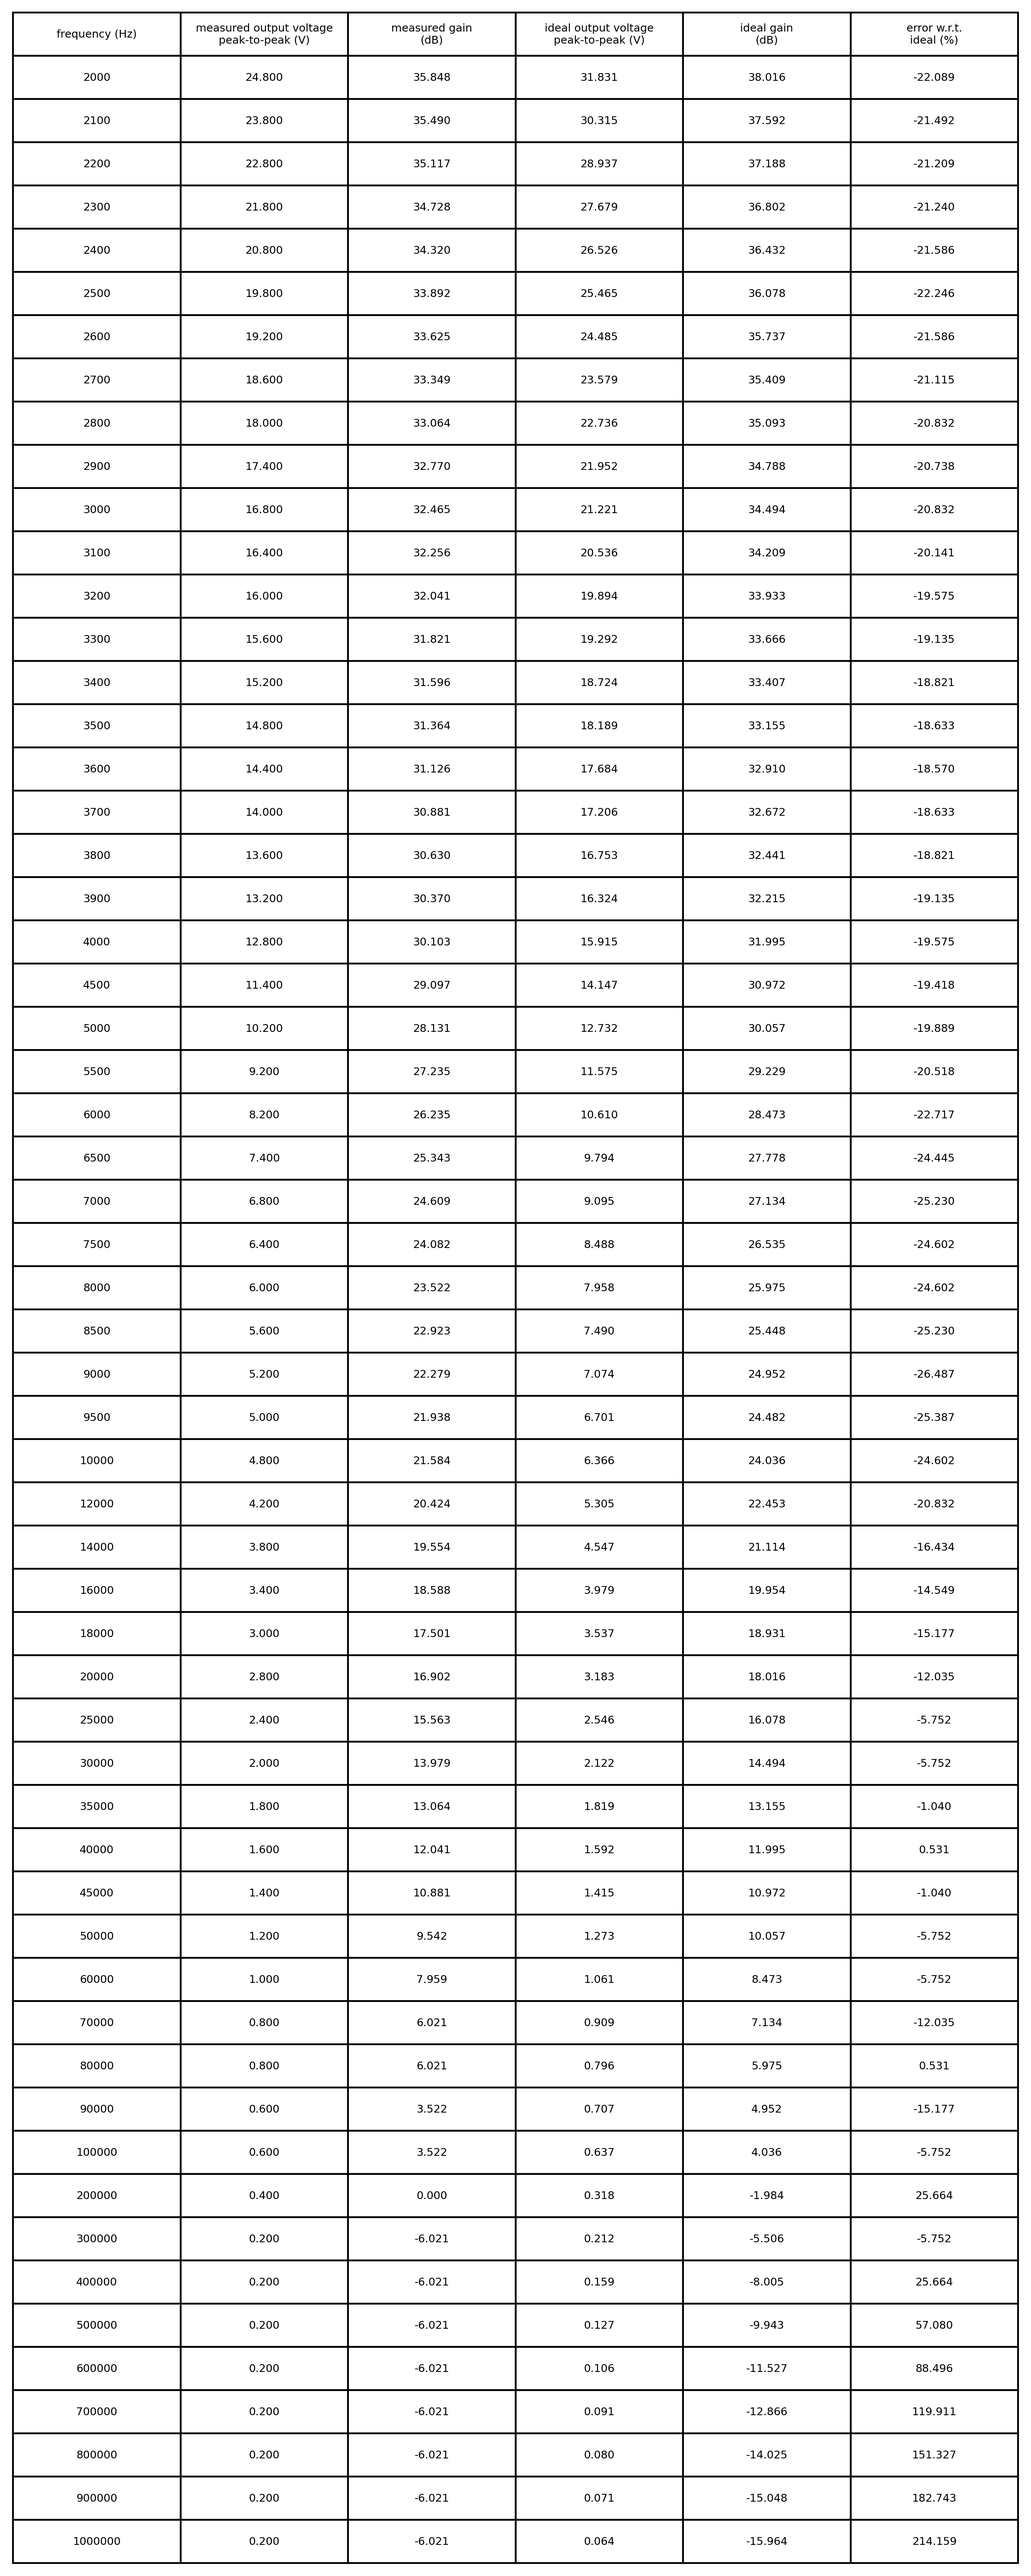
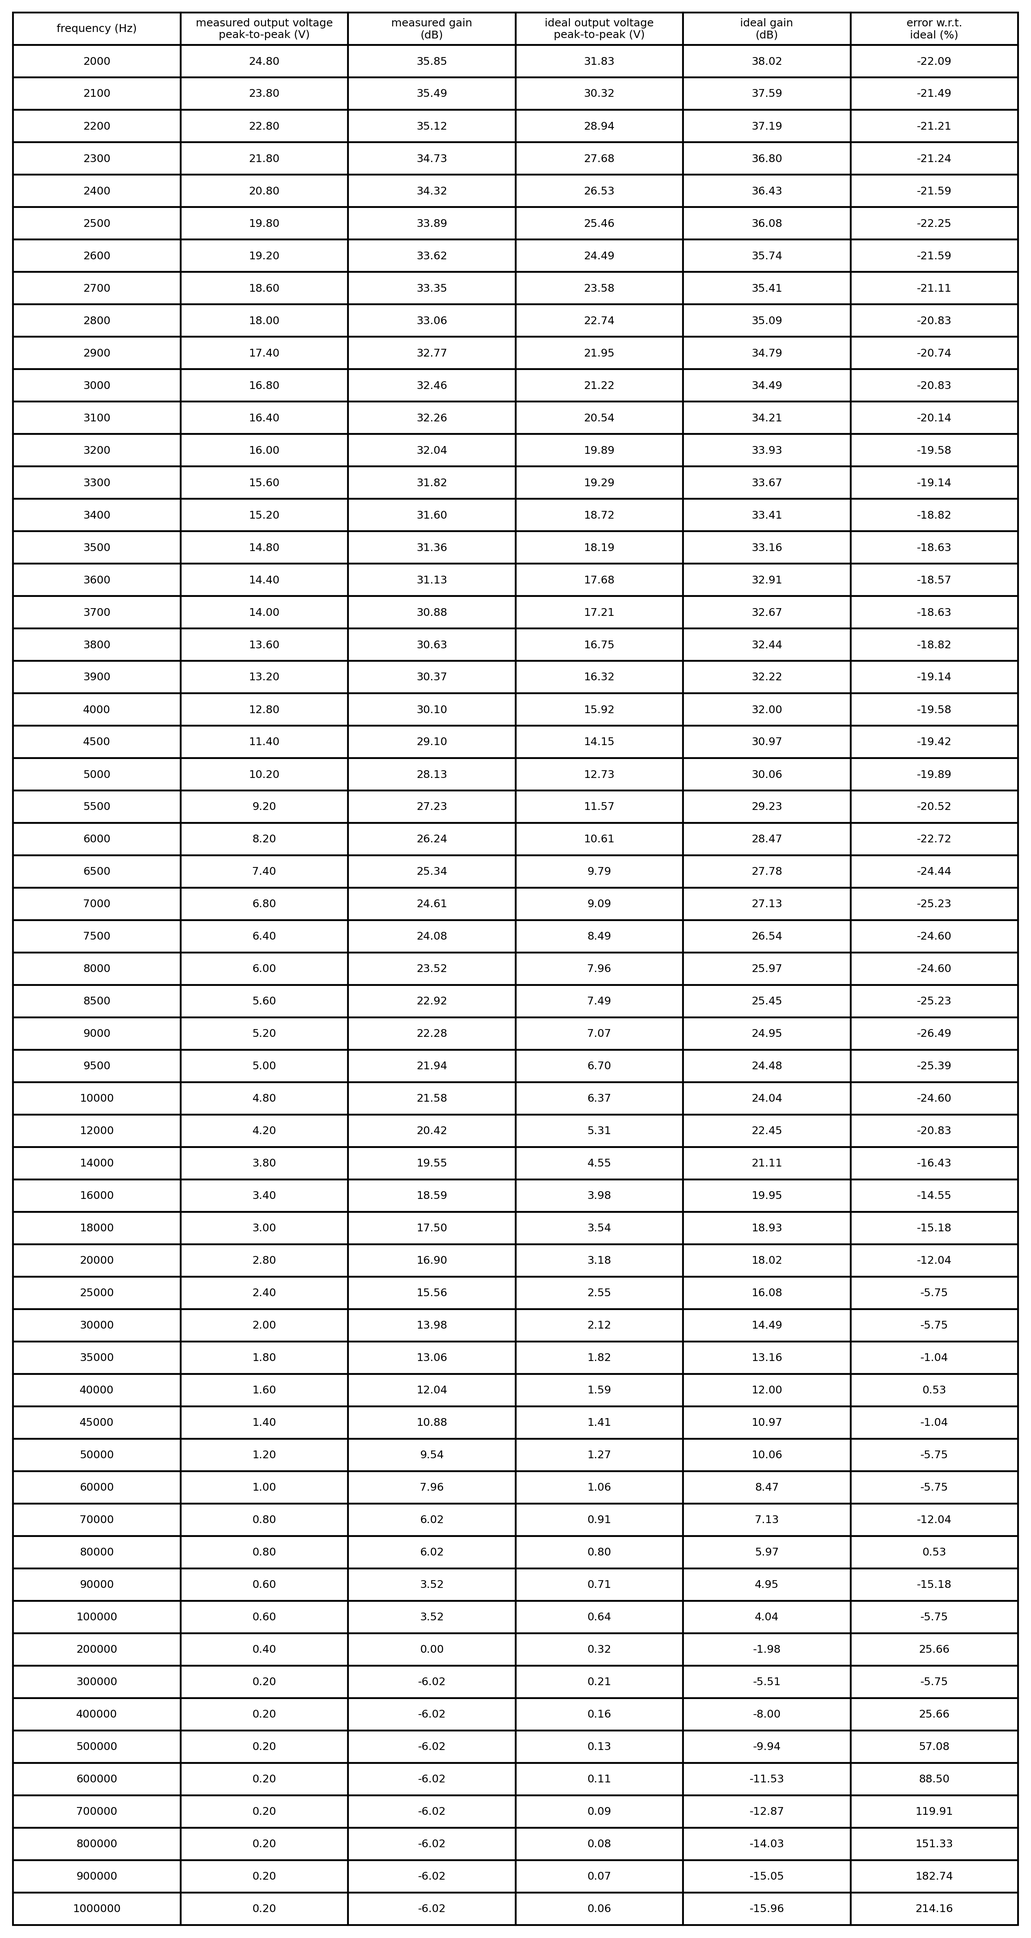
2026-10-20T19:17:15+00:00

Changed region(s): [[0.031, 0.0, 0.9929, 0.9991]]

diff --git a/2/post-lab/bode_plot.py b/2/post-lab/bode_plot.py
@@ -54,11 +54,11 @@ def process(C, freq, vout_pp, name, title, plotname, tablename):
     data = [
         [
             f"{f:.0f}",
-            f"{m:.3f}",
-            f"{md:.3f}",
-            f"{i:.3f}",
-            f"{id:.3f}",
-            f"{ie:.3f}",
+            f"{m:.2f}",
+            f"{md:.2f}",
+            f"{i:.2f}",
+            f"{id:.2f}",
+            f"{ie:.2f}",
         ]
         for f, m, md, i, id, ie in zip(
             freq,
@@ -78,7 +78,7 @@ def process(C, freq, vout_pp, name, title, plotname, tablename):
         cellLoc="center",
     )
     table.auto_set_font_size(True)
-    table.scale(1, 2)
+    table.scale(1, 1.5)
     fig.savefig(tablename, dpi=300, bbox_inches="tight")
     plt.close(fig)
     plt.figure(figsize=(10, 6))
